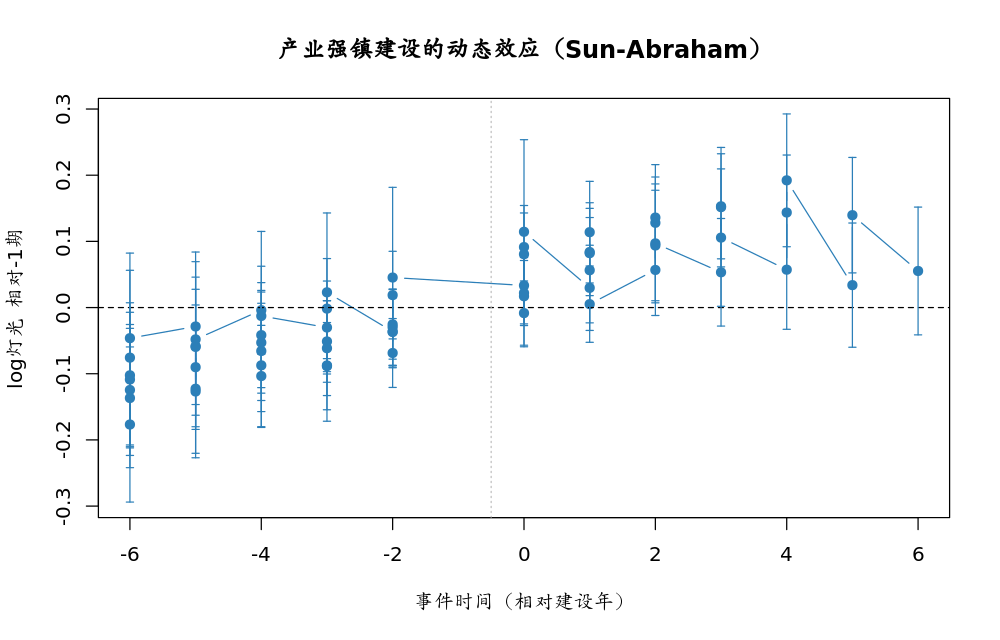
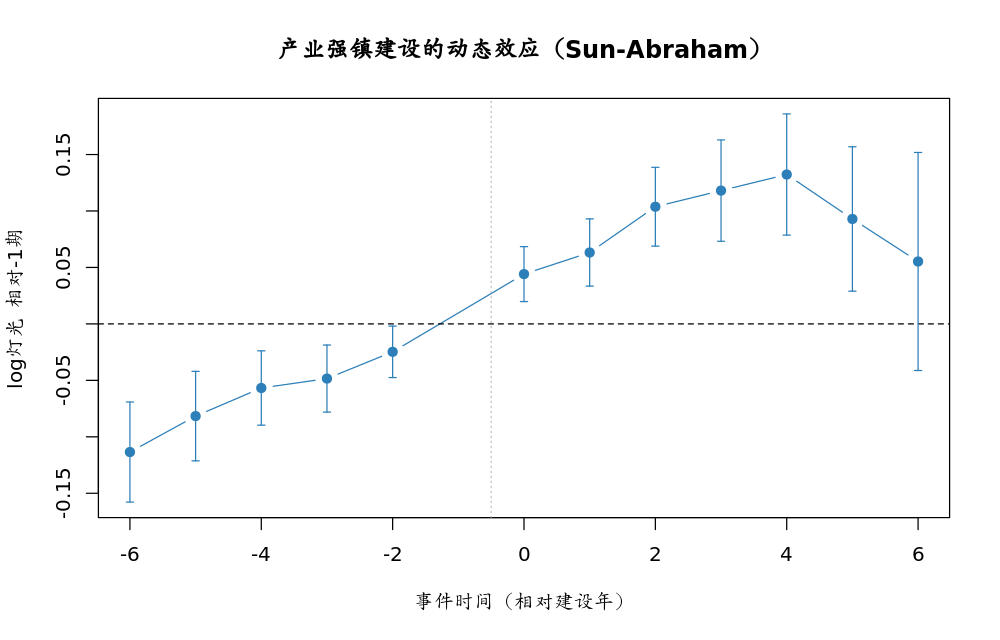
Paper1完成: 强镇交错DID(灯光+17%朴素/+5.5%镇趋势稳健,事件研究pre-trend诚实处理,认定无增量)

diff --git a/rural_specialty_industry/paper1/RESULTS.md b/rural_specialty_industry/paper1/RESULTS.md
@@ -1,0 +1,39 @@
+# Paper 1 结果备忘：产业强镇的因果效应（交错DID）
+
+代码：`paper1/code/01_build_panel.py`（镇×年面板）、`02_did.R`（Sun-Abraham事件研究）。
+面板：镇×年(2010–2024)，650,490观测，43,366镇；处理镇1,333（强镇建设全批次2018–2024），认定镇823。
+结果变量：镇级夜间灯光sum（主）、Landscan人口、淘宝村数。控制组：尚未/从未建设镇。
+
+## 核心发现
+
+**1. 静态TWFE（表1）**
+产业强镇建设后：log灯光 **+0.171***（≈+17%），Landscan人口 **−0.037***，淘宝村数 +0.061*。
+→ 灯光（经济活动）显著上升，人口相对微降（资本/产业进入而非人口集聚），电商化边际上升。
+
+**2. 选择性与稳健估计（表1b + 事件研究）**
+Sun-Abraham事件研究暴露**处理前上升趋势**：远期pre系数 t=−13为−0.25，平滑收敛至 t=−2的−0.025——强镇是从"本就增长更快"的镇中遴选，简单TWFE高估。
+- 加**镇特定线性趋势**吸收长期分化后，post效应=**+0.055**（仍显著），是更可信的因果下界。
+- 处理后系数在既有趋势之上继续加速：t=0→4 为 0.044→0.063→0.104→0.118→0.132，t=5+回落（长横距cohort减少）。
+- 聚合ATT(灯光)=0.085***。
+
+**3. 动态与机制（表3）**
+人口ATT=−0.026***（持续相对下降），淘宝村ATT=+0.030*（弱电商化）。灯光升+人口降，指向政策带动的是产业资本与产出，而非人口回流。
+
+**4. 设计B：认定的增量效应（表4，限建设镇样本）**
+建设镇内 认定 vs 未认定：post_cert=−0.037（不显著）。
+→ **认定本身无额外灯光效应**：效应主要来自"进入建设名单+财政奖补"，通过认定这一行政确认不带来增量。这与"资金到位即起效"一致。
+
+**5. 异质性（表5）**
+早批次(2018–2020) vs 晚批次交互不显著（post_early=−0.013），效应跨批次稳定。
+
+## 诚实评估与升级路径
+- **主要威胁=选择性**：事件研究pre-trend显示遴选偏差。当前以"镇特定趋势"稳健估计(+5.5%)为诚实下界；正式稿需加 Rambachan–Roth HonestDiD 敏感性 + 倾向匹配控制组（按pre灯光增速匹配）。
+- **RD升级**：若获取强镇评审打分/答辩排序，可用评分断点做准RD，彻底解决选择性——数据需求已提交韩老师。
+- 镇级企业进入（工商数据落乡镇）待乡镇边界shp后并入，作机制加强。
+- 空间溢出（环带虹吸检验）为下一步：以强镇为圆心对邻近非处理镇估计外部性。
+
+## 图表
+- `results_paper1.txt` 全部回归
+- `fig_eventstudy_light.png` 灯光动态效应
+- `eventstudy_light.csv` 事件时间聚合系数
+- `town_year_panel.csv` 面板
